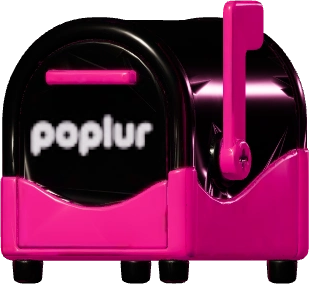
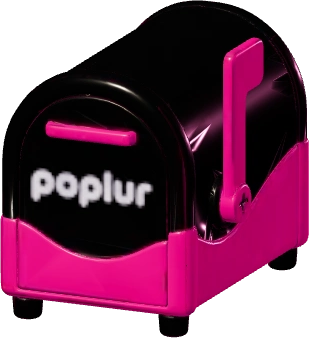
Beta invite email: the mailbox from slightly below (y-24 p16)
The owner's pick from the render set: the three-quarter view seen from
just under the flag, which shows the front face, the slot and the flag
at once.

diff --git a/PoplurApp/src/emails/betaInviteEmail.ts b/PoplurApp/src/emails/betaInviteEmail.ts
@@ -1,7 +1,8 @@
 // The beta invite, in the landing page's own clothes (landing/landing.css, the
 // default theme), carried by the two clay mail objects — the mailbox and the
 // airmail envelope, rendered from the app's own models
-// (poplur-clay-map/public/navigator-sprites, /sprites).
+// (poplur-clay-map/public/navigator-sprites, /sprites). The mailbox is the
+// y-24 p16 render, the three-quarter seen from slightly below, the owner's pick.
 //
 // It comes in four designs and the sender rolls one per email
 // (pickBetaInviteVariant), the way the landing rolls a theme per visit:
